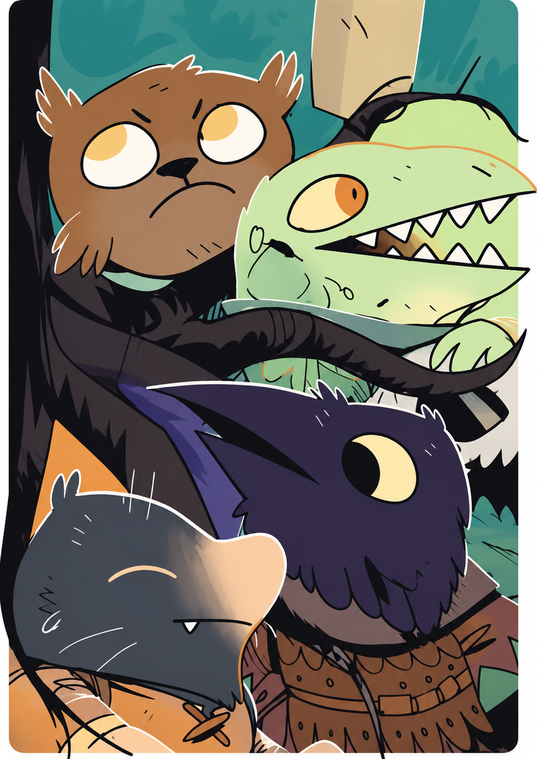
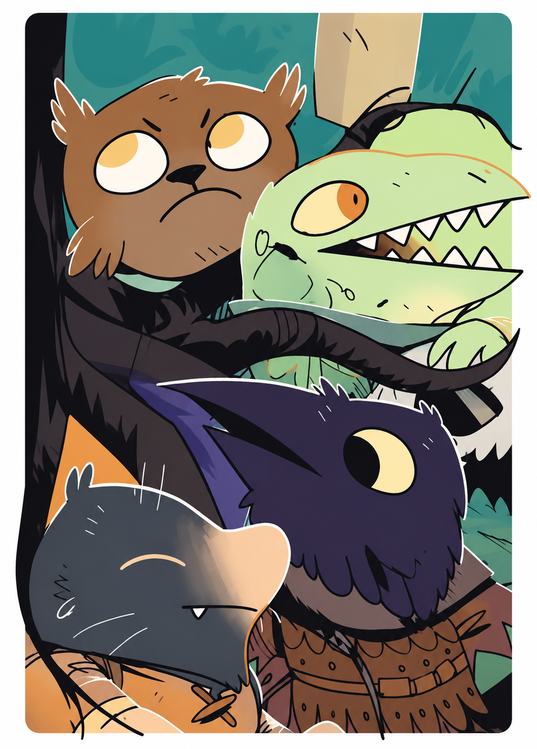
fix(ui): show the whole Exiles & Partisans back on a revealed card
The back was trimmed to its art and masked round; it is now the whole
image as collected, white margin included, in the same frame as a face.

diff --git a/frontend/react/src/react/cardFlightViews.tsx b/frontend/react/src/react/cardFlightViews.tsx
@@ -86,9 +86,8 @@ const FLIGHT_BASE_CLASS_NAME =
 export const CARD_FRAME_CLASS_NAME = `card-flight ${FLIGHT_BASE_CLASS_NAME} h-77.5 w-55`
 export const CARD_FACE_CLASS_NAME =
   'absolute inset-0 block size-full rounded-md border-3 border-ink-deep object-fill shadow-card backface-hidden'
-/** The back art has its own rounded shape: an ink line follows it, no frame. */
-const CARD_BACK_CLASS_NAME =
-  'absolute inset-0 block size-full rotate-y-180 object-fill backface-hidden [filter:drop-shadow(0_0_1.5px_var(--color-ink-deep))_drop-shadow(2px_3px_0_color-mix(in_srgb,var(--color-ink-deep)_35%,transparent))]'
+/** The whole back as printed, white margin included, framed like the face. */
+const CARD_BACK_CLASS_NAME = `${CARD_FACE_CLASS_NAME} rotate-y-180`
 /**
  * Back of the shared deck (Exiles & Partisans). The base game back sits
  * beside it as `card-back-base.png`.
